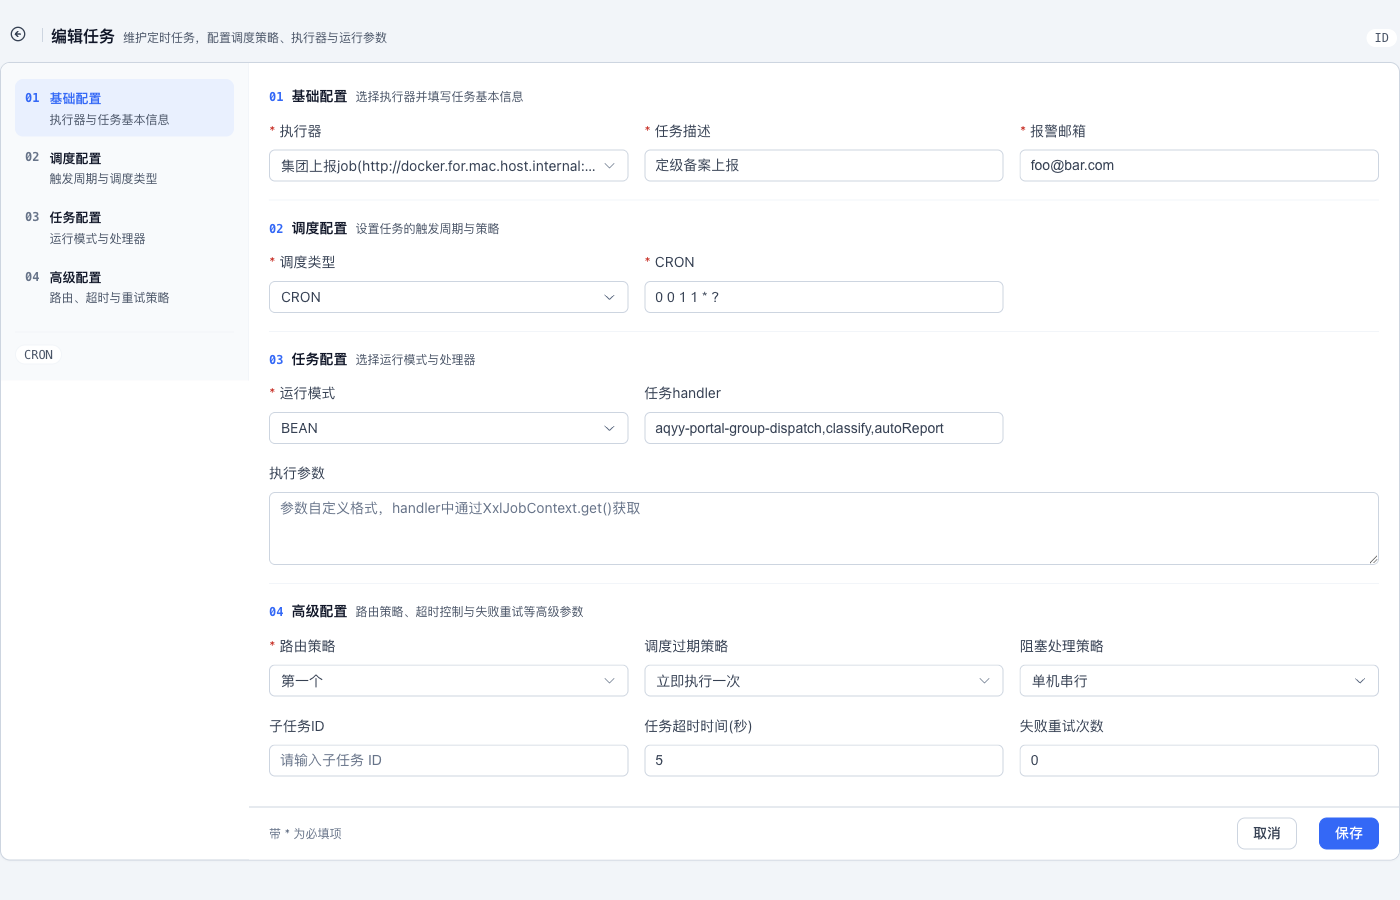
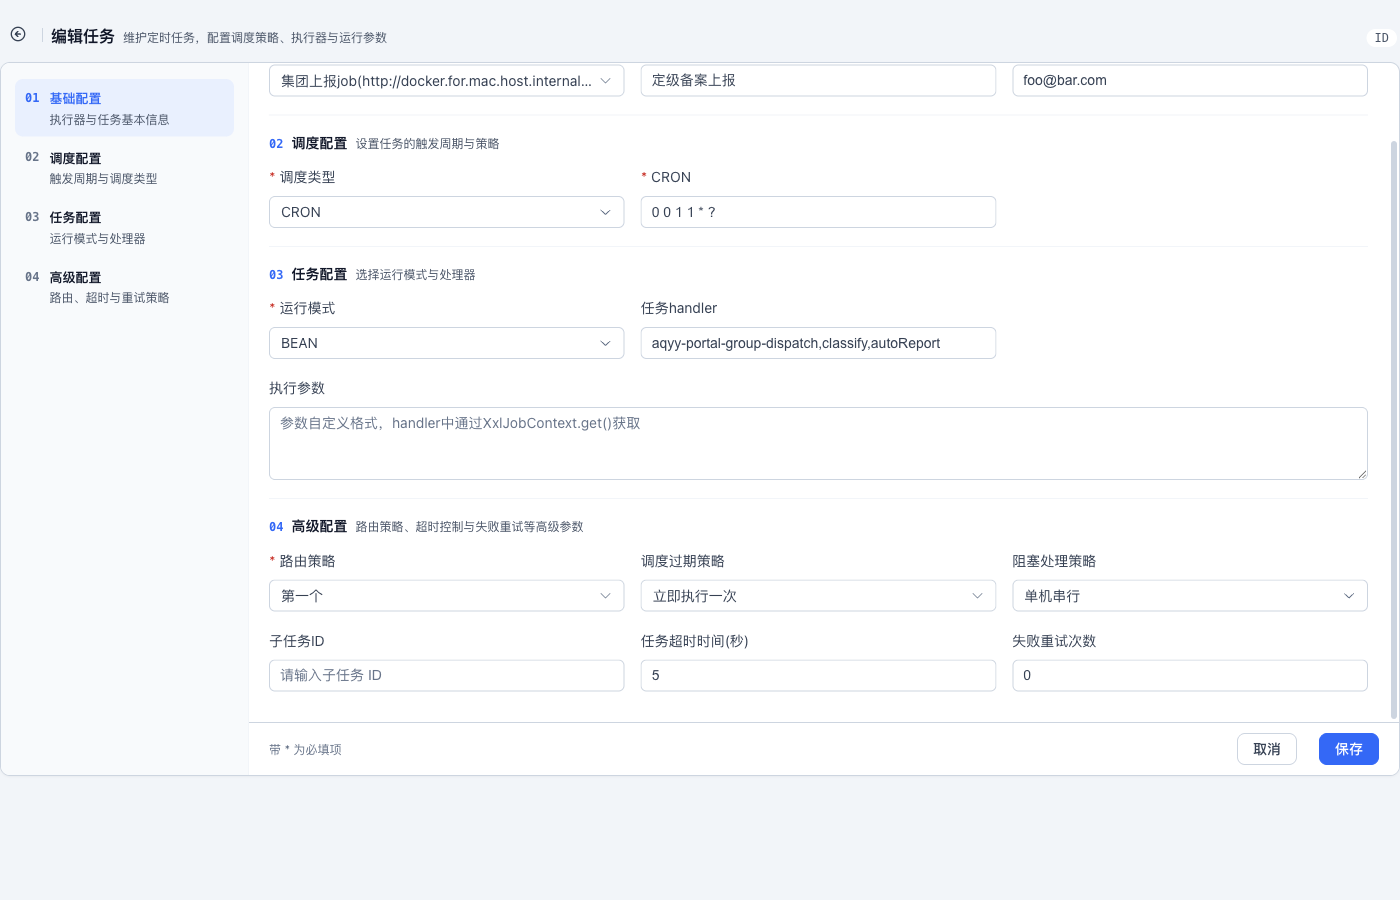
fix: 任务编辑页改为定高布局，左侧导航固定、右侧表单独立滚动，并移除导航底部 CRON 胶囊

diff --git a/xxl-job-admin/src/main/resources/static/src/views/task/edit.vue b/xxl-job-admin/src/main/resources/static/src/views/task/edit.vue
@@ -178,7 +178,23 @@ const scrollToSection = (id: string) => {
   if (el) el.scrollIntoView({behavior: 'smooth', block: 'start'})
 }
 
+/** 页面高度按「最外层可见窗口」计算：门户里 iframe 被内容撑高，用 100vh 会超出屏幕导致左侧导航被滚走 */
+const applyPageHeight = () => {
+  let vh = window.innerHeight
+  try {
+    const host: any = (window.parent && window.parent !== window) ? window.parent : window
+    vh = host.innerHeight || vh
+  } catch (e) {
+    vh = window.innerHeight
+  }
+  // 门户顶部标题栏 + 标签栏约 114px，由 h-sm 统一预留
+  const h = Math.max(420, vh - 114)
+  document.documentElement.style.setProperty('--te-page-h', h + 'px')
+}
+
 onMounted(() => {
+  applyPageHeight()
+  window.addEventListener('resize', applyPageHeight)
   queryDict()
   fetchJobGroup()
   resetForm()
@@ -239,10 +255,6 @@ onMounted(() => {
               </span>
             </li>
           </ul>
-          <div class="te-nav__foot">
-            <span class="te-chip" v-if="taskForm.scheduleType">{{ taskForm.scheduleType }}</span>
-            <span class="te-chip" v-if="isCopy">{{ langData.copyMode }}</span>
-          </div>
         </aside>
 
         <!-- 右侧表单 -->
@@ -363,9 +375,23 @@ onMounted(() => {
 </template>
 
 <style scoped>
-.task-edit-page { gap: 10px; padding-bottom: 10px; }
+.task-edit-page {
+  height: var(--te-page-h, calc(100vh - 114px));
+  display: flex;
+  flex-direction: column;
+  gap: 10px;
+  padding-bottom: 10px;
+  overflow: hidden;
+}
 
-.te-shell { padding: 0; overflow: hidden; }
+.te-shell {
+  flex: 1;
+  min-height: 0;
+  display: flex;
+  flex-direction: column;
+  padding: 0;
+  overflow: hidden;
+}
 
 .page-back {
   font-size: var(--el-font-size-medium);
@@ -378,24 +404,24 @@ onMounted(() => {
 .page-divider { width: 1px; height: 14px; background: var(--el-border-color); flex-shrink: 0; }
 
 .te {
+  flex: 1;
+  min-height: 0;
   display: grid;
   grid-template-columns: 248px minmax(0, 1fr);
-  min-height: 0;
 }
 
 /* 左侧导航：粘在页面顶部，不随右侧表单滚动 */
+/* 左侧导航：占满列高、独立滚动，右侧内容滚动时它不动 */
 .te-nav {
-  position: sticky;
-  top: 0;
-  align-self: start;
   display: flex;
   flex-direction: column;
   gap: 4px;
   padding: 16px 14px;
   border-right: 1px solid var(--el-border-color-lighter);
   background: var(--el-fill-color-light);
-  max-height: calc(100vh - 140px);
+  min-height: 0;
   overflow: auto;
+  overscroll-behavior: contain;
 }
 
 .te-nav__list { list-style: none; margin: 0; padding: 0; display: flex; flex-direction: column; gap: 2px; }
@@ -454,9 +480,21 @@ onMounted(() => {
   border-radius: 999px;
 }
 
-.te-main { display: flex; flex-direction: column; min-width: 0; }
+.te-main {
+  display: flex;
+  flex-direction: column;
+  min-width: 0;
+  min-height: 0;
+}
 
-.te-body { padding: 6px 20px 12px; }
+/* 右侧表单区是唯一滚动区域 */
+.te-body {
+  flex: 1;
+  min-height: 0;
+  overflow: auto;
+  overscroll-behavior: contain;
+  padding: 6px 20px 12px;
+}
 
 .te-sec { padding: 16px 0 4px; }
 
@@ -486,8 +524,7 @@ onMounted(() => {
 
 /* 底部操作条：粘在视口底部，始终可点 */
 .te-foot {
-  position: sticky;
-  bottom: 0;
+  flex: none;
   display: flex;
   align-items: center;
   gap: 10px;
